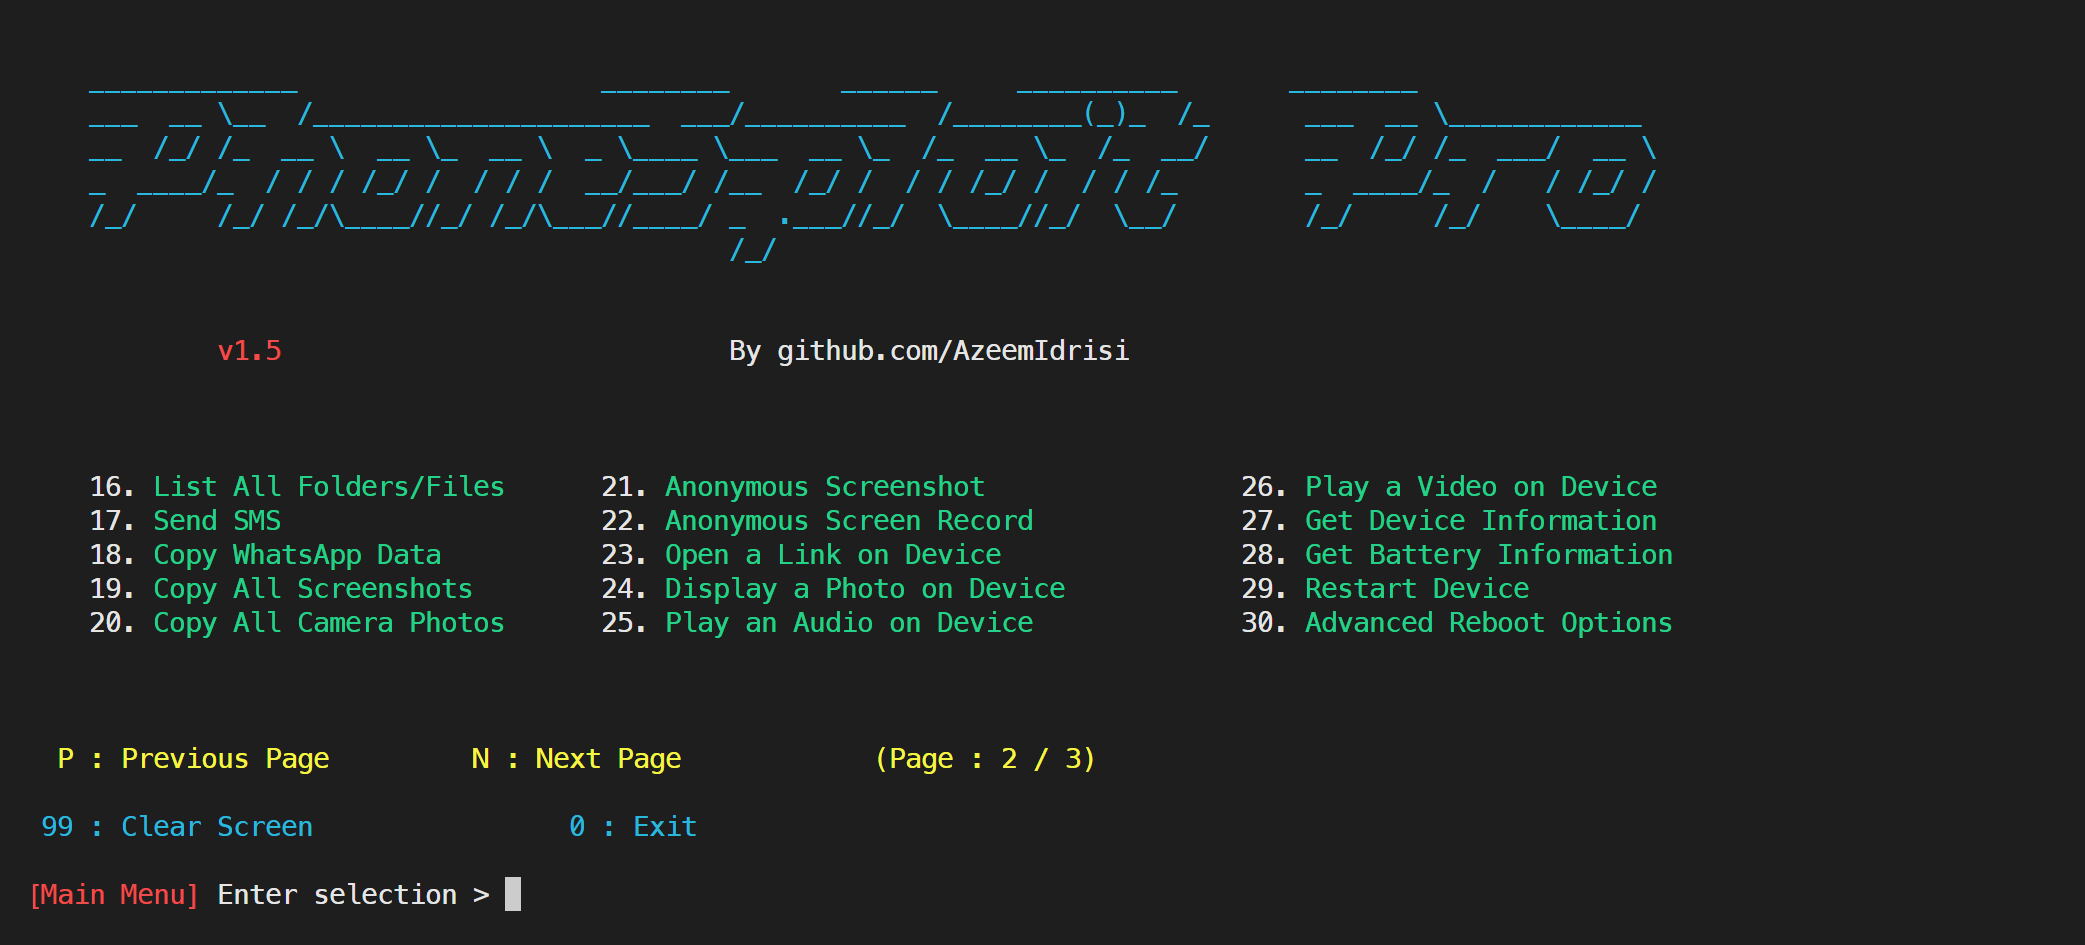
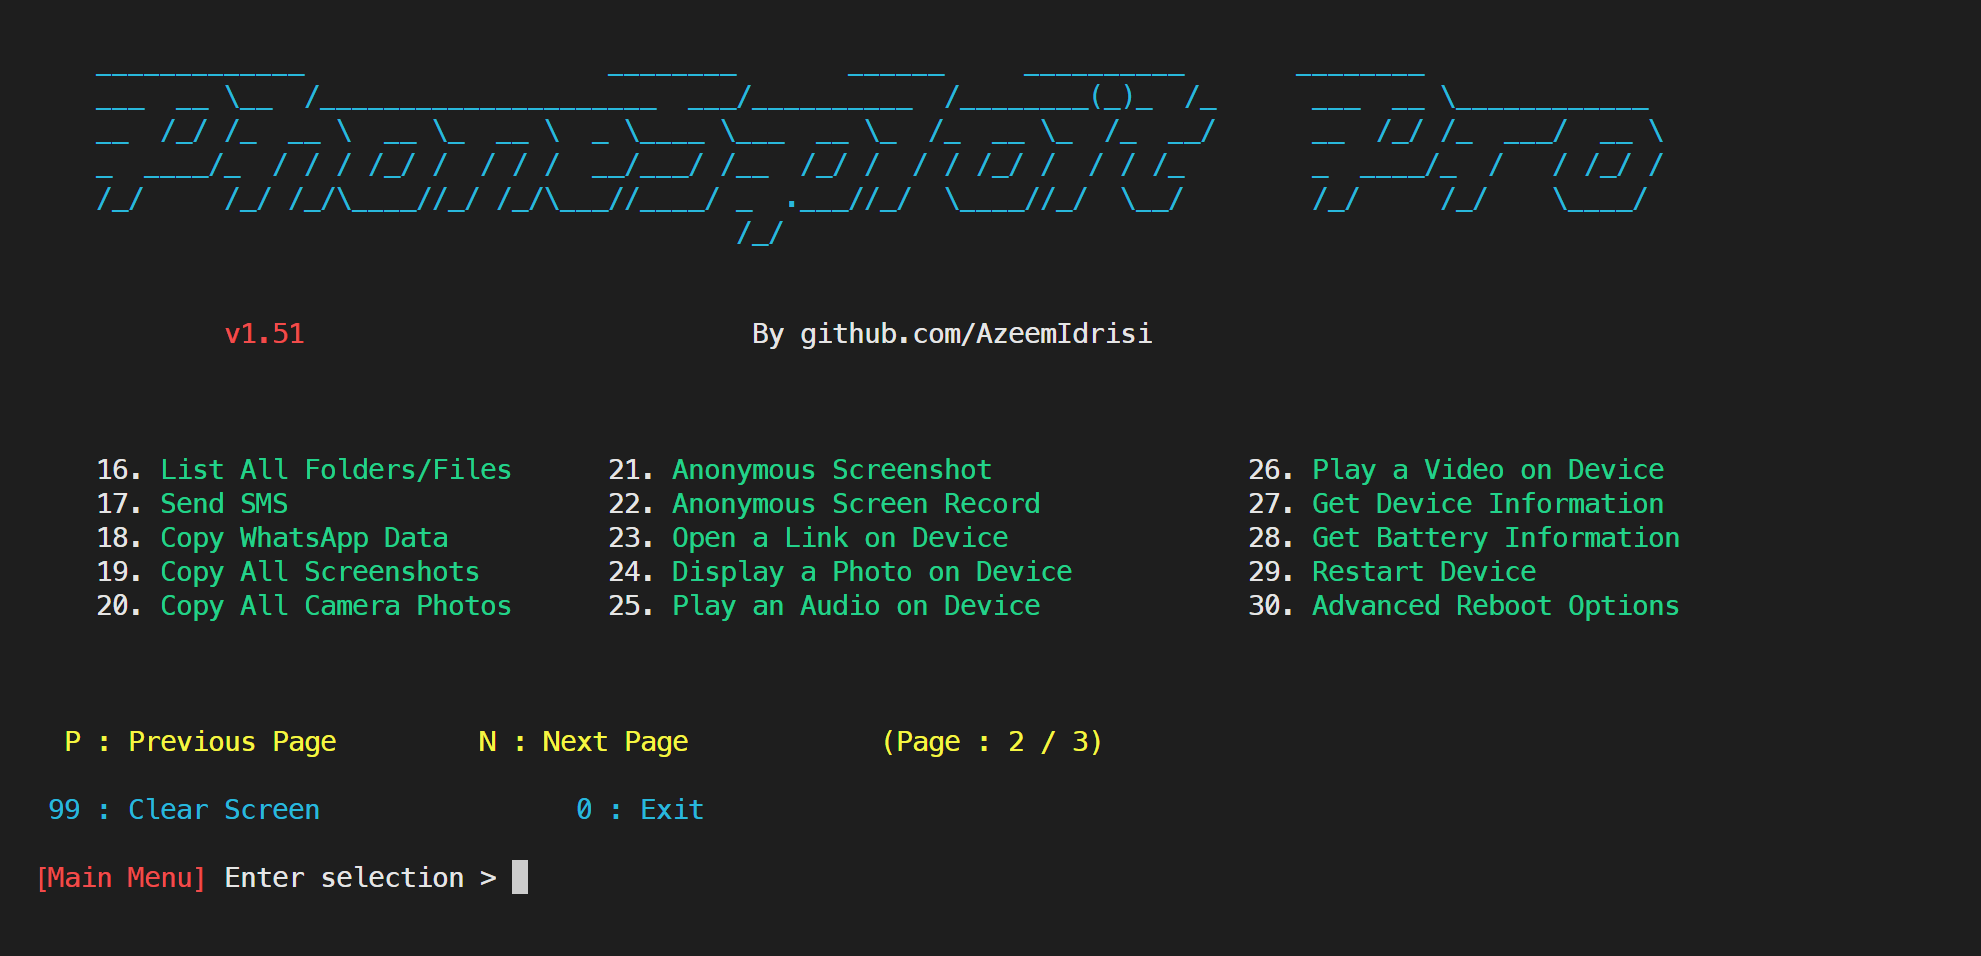
v1.51: Uninstall apps from App List

diff --git a/phonesploitpro.py b/phonesploitpro.py
@@ -334,16 +334,58 @@ def install_app():
 
 
 def uninstall_app():
-    print(
-        f"\n{color.CYAN}Enter package name     {color.WHITE}Example : com.spotify.music ")
-    package_name = input("> ")
+    print(f'''
+    {color.WHITE}1.{color.GREEN} Select from App List
+    {color.WHITE}2.{color.GREEN} Enter Package Name Manually
+    {color.WHITE}''')
 
-    if package_name == '':
-        print(
-            f'\n{color.RED} Null Input\n{color.GREEN} Going back to Main Menu{color.WHITE}')
-    else:
-        os.system("adb uninstall " + package_name)
+    mode = (input("> "))
+    if mode == '1':
+
+        # Listing third party apps
+        list = os.popen("adb shell pm list packages -3").read().split("\n")
+        list.remove('')
+        i = 0
         print("\n")
+        for app in list:
+            i += 1
+            app = app.replace("package:", "")
+            print(f"{color.GREEN}{i:02d}.{color.WHITE} {app}")
+
+        # Selection of app
+        app = input("\nEnter Selection > ")
+        if (app.isdigit()):
+            if int(app) <= len(list) and int(app) > 0:
+                package = list[int(app)-1].replace("package:", "")
+                print(
+                    f"\n{color.RED}Uninstalling {color.YELLOW}{package}{color.WHITE}")
+                os.system("adb uninstall " + package)
+            else:
+                print(
+                    f'\n{color.RED} Invalid selection\n{color.GREEN} Going back to Main Menu{color.WHITE}')
+                return
+        else:
+            print(
+                f'\n{color.RED} Expected an Integer Value\n{color.GREEN} Going back to Main Menu{color.WHITE}')
+            return
+
+    elif mode == '2':
+
+        print(
+            f"\n{color.CYAN}Enter package name     {color.WHITE}Example : com.spotify.music ")
+        package_name = input("> ")
+
+        if package_name == '':
+            print(
+                f'\n{color.RED} Null Input\n{color.GREEN} Going back to Main Menu{color.WHITE}')
+        else:
+            os.system("adb uninstall " + package_name)
+    else:
+        print(
+            f'\n{color.RED} Invalid selection\n{color.GREEN} Going back to Main Menu{color.WHITE}')
+        return
+
+    print("\n")
 
 
 def launch_app():
@@ -1180,6 +1222,8 @@ def main():
             change_page('p')
         case 'n':
             change_page('n')
+        case 'release':
+            from modules import release
         case '0':
             exit_phonesploit_pro()
         case '99':

diff --git a/modules/release.py b/modules/release.py
@@ -1,0 +1,86 @@
+from modules import color
+from modules import banner
+import os
+import platform
+
+
+def exit_phonesploit_pro():
+    global run_phonesploit_pro
+    run_phonesploit_pro = False
+    print("\nExiting...\n")
+
+
+def display_menu():
+    """ Displays banner and menu"""
+    print(selected_banner, page)
+
+
+def clear_screen():
+    """ Clears the screen and display menu """
+    os.system(clear)
+    display_menu()
+
+
+def start():
+    operating_system = platform.system()
+    if operating_system == 'Windows':
+        # Windows specific configuration
+        windows_config()
+
+
+def windows_config():
+    global clear
+    clear = 'cls'
+
+
+def change_page(name):
+    global page, page_number, selected_banner
+    if name == 'p':
+        if page_number > 0:
+            page_number = page_number - 1
+    elif name == 'n':
+        if page_number < 2:
+            page_number = page_number + 1
+    if page_number == 0:
+        selected_banner = color.RED + banner.banner6
+    elif page_number == 1:
+        selected_banner = color.CYAN + banner.banner11
+    elif page_number == 2:
+        selected_banner = color.YELLOW + banner.banner2
+    page = banner.menu[page_number]
+    clear_screen()
+
+
+def main():
+    # Clearing the screen and presenting the menu
+    # taking selection input from user
+    print(f"\n {color.CYAN}99 : Clear Screen                0 : Exit")
+    option = input(
+        f"\n{color.RED}[Main Menu] {color.WHITE}Enter selection > ").lower()
+    match option:
+        case 'p':
+            change_page('p')
+        case 'n':
+            change_page('n')
+        case '0':
+            exit_phonesploit_pro()
+        case '99':
+            clear_screen()
+
+
+clear = 'clear'
+page_number = 0
+page = banner.menu[page_number]
+
+# Concatenating banner color with the selected banner
+selected_banner = color.RED + banner.banner6
+
+start()
+run_phonesploit_pro = True
+if run_phonesploit_pro:
+    clear_screen()
+    while run_phonesploit_pro:
+        try:
+            main()
+        except KeyboardInterrupt:
+            exit_phonesploit_pro()

diff --git a/modules/banner.py b/modules/banner.py
@@ -5,7 +5,7 @@ Author : Mohd Azeem (github.com/AzeemIdrisi)
 
 from modules import color
 
-version = 'v1.5'
+version = 'v1.51'
 
 menu1 = f'''
 
